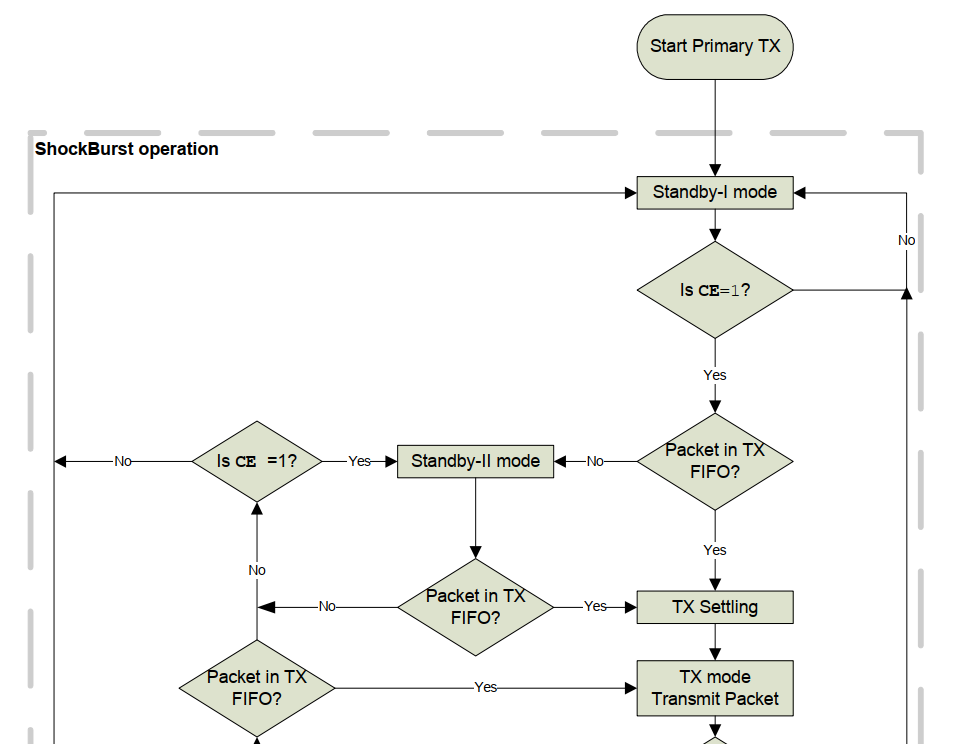
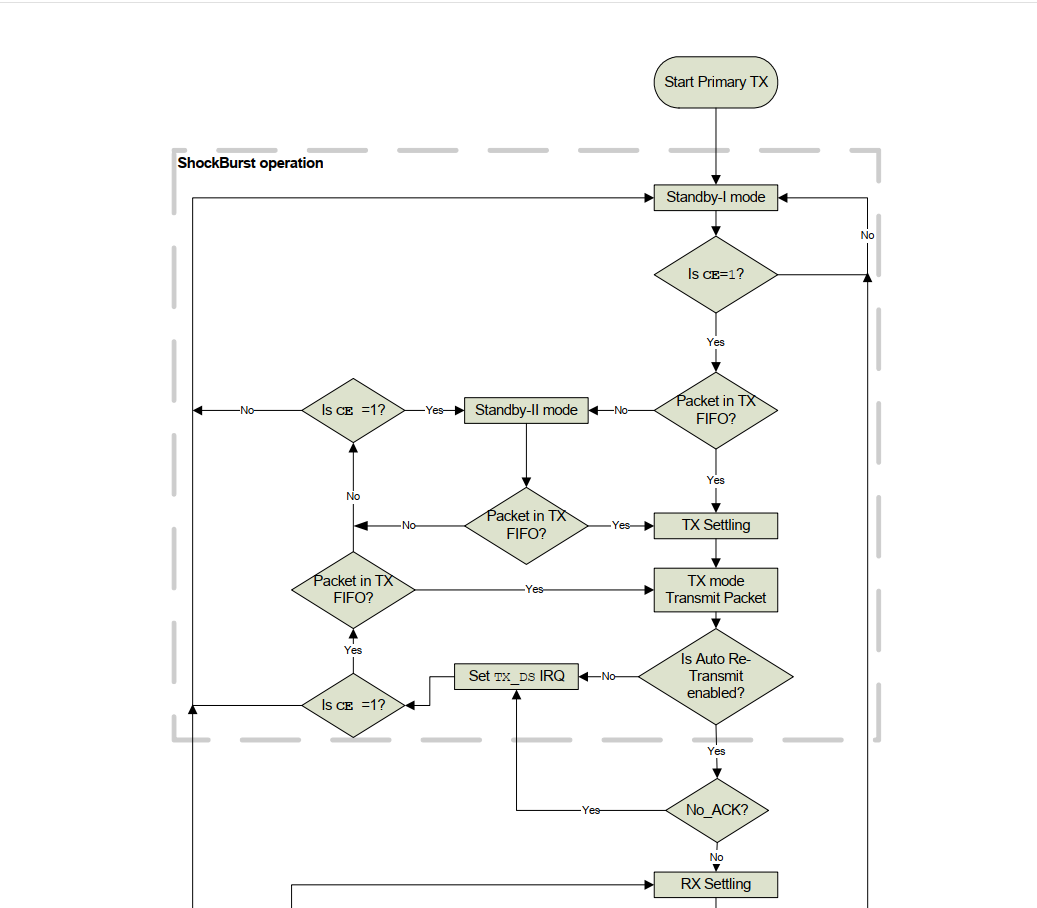
finished 7

diff --git a/07 Enhanced ShockBurst.md b/07 Enhanced ShockBurst.md
@@ -206,6 +206,144 @@ nRF24L01 可以同时在`TX FIFO (PRX)`中保留三个待处理的 ACK 数据包
 
 ## 7.6 增强型 ShockBurst 流程图
 
+本节显示了增强型 ShockBurst™ 中 PTX 和 PRX 操作的流程图。  ShockBurst™ 操作在流程图中用虚线方块标记
+
+### 7.6.1 PTX 操作
+
+图 8 中的流程图显示了配置为 PTX 的 nRF24L01 在进入待机 I 模式后的行为方式。
+
 ![图8-1](./images/fig08-1.png)
 ![图8-2](./images/fig08-2.png)
-![图8-3](./images/fig08-3.png)
+
+您可以通过将 CE 引脚设置为高电平来激活 PTX 模式。 如果 TX FIFO 中存在数据包，则 nRF24L01 进入 TX 模式并传输该数据包。 检查 NO_ACK 标志是否设置。
+
+如果未设置，nRF24L01 进入 RX 模式以接收 ACK 数据包。 如果接收到的 ACK 数据包为空，则仅断言 `TX_DS` IRQ。 如果 ACK 数据包包含有效负载，则在 nRF24L01 返回待机 I 模式之前，`TX_DS` IRQ 和 `RX_DR` IRQ 会同时置位。
+
+如果在超时之前未收到 ACK 数据包，nRF24L01 将返回待机 I 模式。 它保持在待机-I 模式，直到 ARD 结束。 如果重传次数未达到 ARC，则 nRF24L01 进入 TX 模式并再次发送最后一个数据包。
+
+执行自动重传功能时，重传次数可以达到ARC中定义的最大次数。 如果发生这种情况，nRF24L01 将置位 `MAX_RT` IRQ 并返回待机 I 模式。
+
+如果 CE 为高电平且 TX FIFO 为空，则 nRF24L01 进入待机 II 模式。
+
+### 7.6.2 PRX 操作
+
+图 9 中的流程图显示了配置为 PRX 的 nRF24L01 在进入待机 I 模式后的行为方式。
+
+![图9](./images/fig09-1.png)
+![图9](./images/fig09-2.png)
+
+您可以通过将 CE 引脚设置为高电平来激活 PRX 模式。  nRF24L01 进入 RX 模式并开始搜索数据包。 如果接收到数据包并且启用了自动确认，nRF24L01 会决定这是一个新数据包还是先前接收到的数据包的副本。 如果数据包是新的，则有效负载在 `RX FIFO` 中可用，并且 `RX_DR` IRQ 被置位。 如果从发送器收到的最后一个数据包通过带有有效负载的 ACK 数据包进行确认，则 `TX_DS` IRQ 指示 PTX 已收到带有有效负载的 ACK 数据包。 如果接收到的数据包中未设置 No_ACK 标志，则 PRX 进入 TX 模式。 如果 TX FIFO 中有待处理的有效负载，则会将其附加到 ACK 数据包。 发送 ACK 数据包后，nRF24L01 返回 RX 模式。
+
+如果 ACK 数据包丢失，则可能会收到先前接收到的数据包的副本。 在这种情况下，PRX 会丢弃接收到的数据包并在返回到 RX 模式之前发送 ACK 数据包。
+
+## 7.7 多接收器
+
+多接收器是 RX 模式中使用的一项功能，包含一组具有唯一地址的 6 个并行数据管道。
+数据管道是物理RF信道中的逻辑信道。  
+
+nRF24L01 中的每个数据管道都有自己的物理地址解码。
+
+![图10](./images/fig10.png)
+
+配置为 PRX（主接收器）的 nRF24L01 可以接收寻址到一个频道中六个不同数据管道的数据，如图 10 所示。每个数据管道都有自己唯一的地址，并且可以针对单独的行为进行配置。
+
+最多 6 个配置为 PTX 的 nRF24L01 可以与配置为 PRX 的 1 个 nRF24L01 进行通信。 同时搜索所有数据管道地址。 一次只有一个数据管道可以接收数据包。
+
+所有数据管道都可以执行增强型 ShockBurst™ 功能。
+
+以下设置对于所有数据管道都是通用的：
+
+- CRC 启用/禁用（启用增强型 ShockBurst™ 时 CRC 始终启用）
+- CRC 编码方案
+- RX 地址宽度
+- 频道
+- 空中数据速率
+- LNA 增益
+
+数据管道通过 `EN_RXADDR` 寄存器中的位启用。 默认情况下仅启用数据管道 0 和 1。
+
+每个数据管道地址都在 `RX_ADDR_PX` 寄存器中配置。
+
+每个管道最多可以有 5 个字节的可配置地址。
+
+数据管道0有一个唯一的5字节地址。 数据管道 1-5 共享 4 个最高有效地址字节。
+
+LSByte 对于所有 6 个管道必须是唯一的。
+
+图 11是如何寻址数据管道 0-5 的示例。
+
+![图11](./images/fig11.png)
+
+PRX 使用多接收器和增强型 ShockBurst™，从多个 PTX 接收数据包。 为了确保来自 PRX 的 ACK 数据包传输到正确的 PTX，PRX 获取接收数据包的数据管道地址，并将其用作传输 ACK 数据包时的 TX 地址。
+
+图 12 是 PRX 和 PTX 地址配置的示例。 在 PRX 上，定义为管道地址的 RX_ADDR_Pn 必须是唯一的。 在 PTX 上，TX_ADDR 必须与 RX_ADDR_P0 以及指定管道的管道地址相同。
+
+![图12](./images/fig12.png)
+
+在检测到其地址的数据管道接收到完整的数据包之前，其他数据管道都无法接收数据。 当多个 PTX 向 PRX 传输时，ARD 可用于倾斜自动重传，以便它们仅相互阻塞一次。
+
+## 7.8 增强的 ShockBurstTM 时序
+
+本节介绍增强型 ShockBurst™ 的时序以及所有模式的启动和操作方式。
+
+增强型 ShockBurst™ 时序通过数据和控制接口进行控制。
+
+nRF24L01 可设置为静态模式或自主模式，其中内部状态机控制事件。 每个自主模式/序列均以 IRQ 引脚处的中断结束。 所有中断在时序图中均表示为 IRQ 事件。
+
+![fig13](./images/fig13.png)
+
+![fig14](./images/fig14.png)
+
+## 7.9 增强型ShockBurstTM Transaction 图
+
+本节介绍了增强型 ShockBurst™ 自动事务处理的几种场景。 本节图中的标注表示 IRQ 和其他事件。 对于 MCU 活动，事件可能会被放置在不同的时间范围内。
+
+注意：本节中的数字表示数据包到 MCU 的最早可能下载 (DL) 以及有效负载到发射器的最晚可能上传 (UL)
+
+### 7.9.1 具有 ACK 数据包和中断的单个事务
+
+图 15 显示了基本的自动确认。 在 PTX 发送数据包并由 PRX 接收数据包之后，ACK 数据包从 PRX 发送到 PTX。  RX_DR IRQ 在 PRX 接收到数据包后置位，而 TX_DS IRQ 在数据包被确认且 PTX 接收到 ACK 数据包时置位。
+
+![fig15](./images/fig15.png)
+
+### 7.9.2 丢失数据包的单笔交易
+
+图 16 是由于第一个数据包传输丢失而需要重传的场景。 数据包发送后，PTX 进入 RX 模式以接收 ACK 数据包。 第一次传输后，PTX 等待 ACK 数据包指定的时间，如果不在特定时隙内，PTX 会重传数据包，如图 16 所示。
+
+![fig16](./images/fig16.png)
+
+### 7.9.3 丢失 ACK 数据包的单个事务
+
+图 17. 是 ACK 数据包丢失后需要重传的场景。 还指示了相应的中断。
+
+![fig17](./images/fig17.png)
+
+### 7.9.4 带有 ACK 有效负载数据包的单个事务
+
+图 18. 是带有有效负载的基本自动确认的场景。 在 PTX 发送数据包并由 PRX 接收数据包后，带有有效负载的 ACK 数据包从 PRX 发送到 PTX。
+
+RX_DR IRQ 在 PRX 接收到数据包后置位，而在 PTX 侧，当 PTX 接收到 ACK 数据包时，TX_DS IRQ 置位。 在 PRX 侧，收到来自 PTX 的新数据包后，将断言 ACK 数据包有效负载的 TX_DS IRQ。 图 18 中 IRQ 的位置显示了 MCU 可以响应中断的位置。
+
+![fig18](./images/fig18.png)
+
+### 7.9.5 具有 ACK 有效负载数据包和丢失数据包的单个事务
+
+图 19 是第一个数据包丢失并且在 PRX 侧的 RX_DR IRQ 置位之前需要重传的场景。 对于 PTX，收到 ACK 数据包后，TX_DS 和 RX_DR IRQ 均被置位。 在 PRX 侧接收到第二个数据包 (PID=2) 后，RX_DR (PID=2) 和 TX_DS（ACK 数据包有效负载）IRQ 均被置位。
+
+![fig19](./images/fig19.png)
+
+### 7.9.6 两个带有 ACK 有效负载数据包且第一个 ACK 数据包丢失的事务
+
+![fig20](./images/fig20.png)
+
+在图 20 中，ACK 数据包丢失，在 TX_DS IRQ 置位之前需要重传，但 RX_DR IRQ 立即置位。 数据包的重传（PID=1）会导致数据包被丢弃。 对于 PTX，TX_DS 和 RX_DR IRQ 在收到第二次 ACK 传输后置位。 在 PRX 上接收到第二个数据包 (PID=2) 后，RX_DR (PID=2) 和 TX_DS (ACK1PAY) IRQ 均被置位。 标注解释了不同的事件和中断。
+
+### 7.9.7 达到最大重传次数的两个事务
+
+![fig21](./images/fig21.png)
+
+如果自动重传计数器 (ARC_CNT) 超过编程的最大限制 (ARC)，则 MAX_RT IRQ 被置位。 在图 21 中，数据包传输以 MAX_RT IRQ 结束。  TX FIFO 中的有效负载不会被删除，并且由 MCU 决定协议的下一步。  CE 的切换启动传输相同数据包的新序列。 可以使用 FLUSH_TX 命令从 TX FIFO 中删除有效负载。
+
+## 7.10 与 ShockBurst™ 的兼容性
+
+![fig22](./images/fig22.png)
